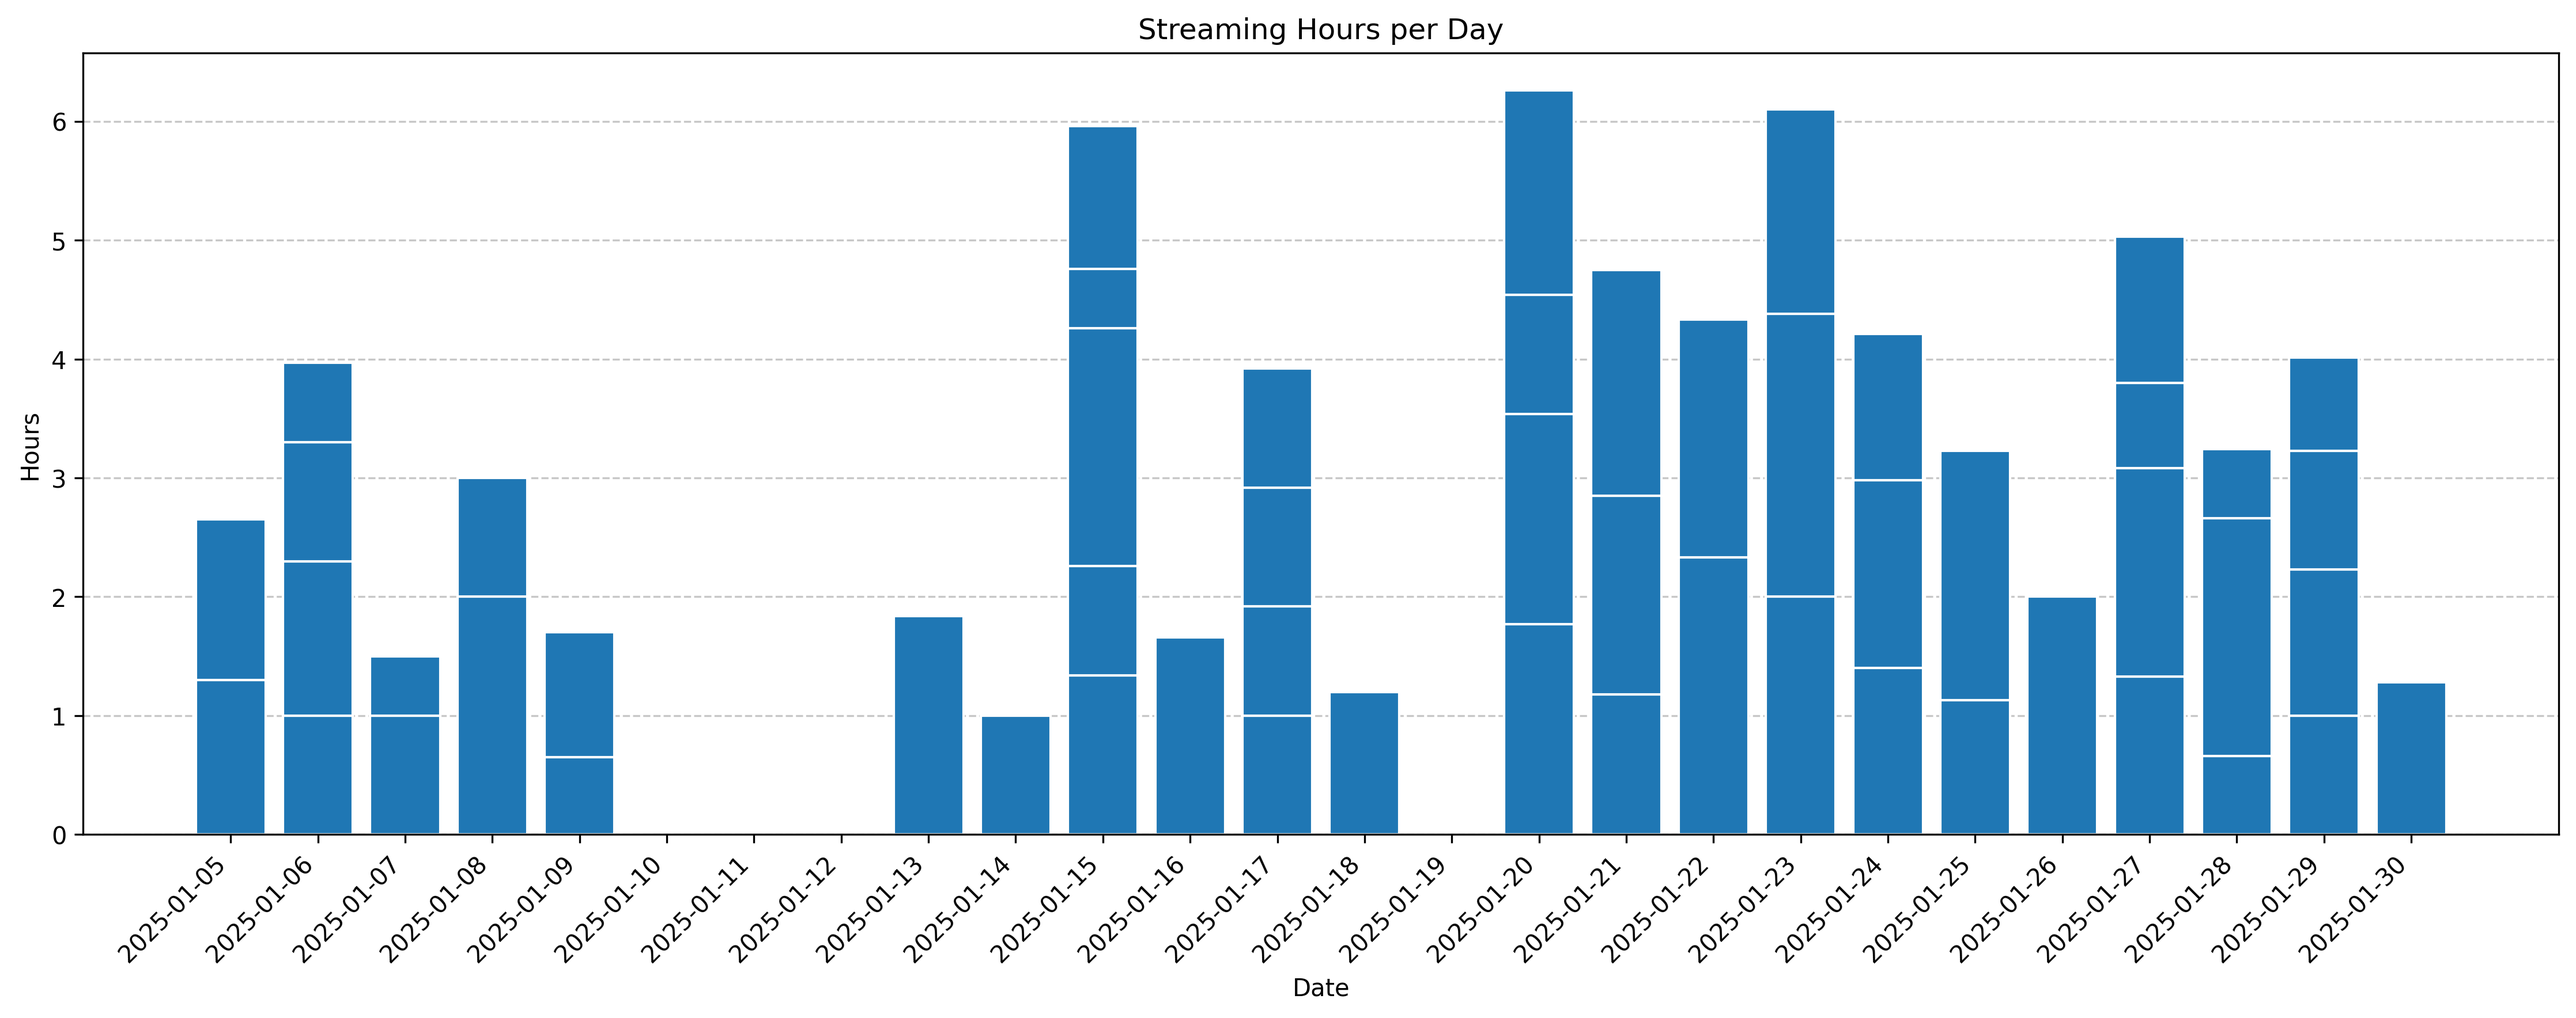
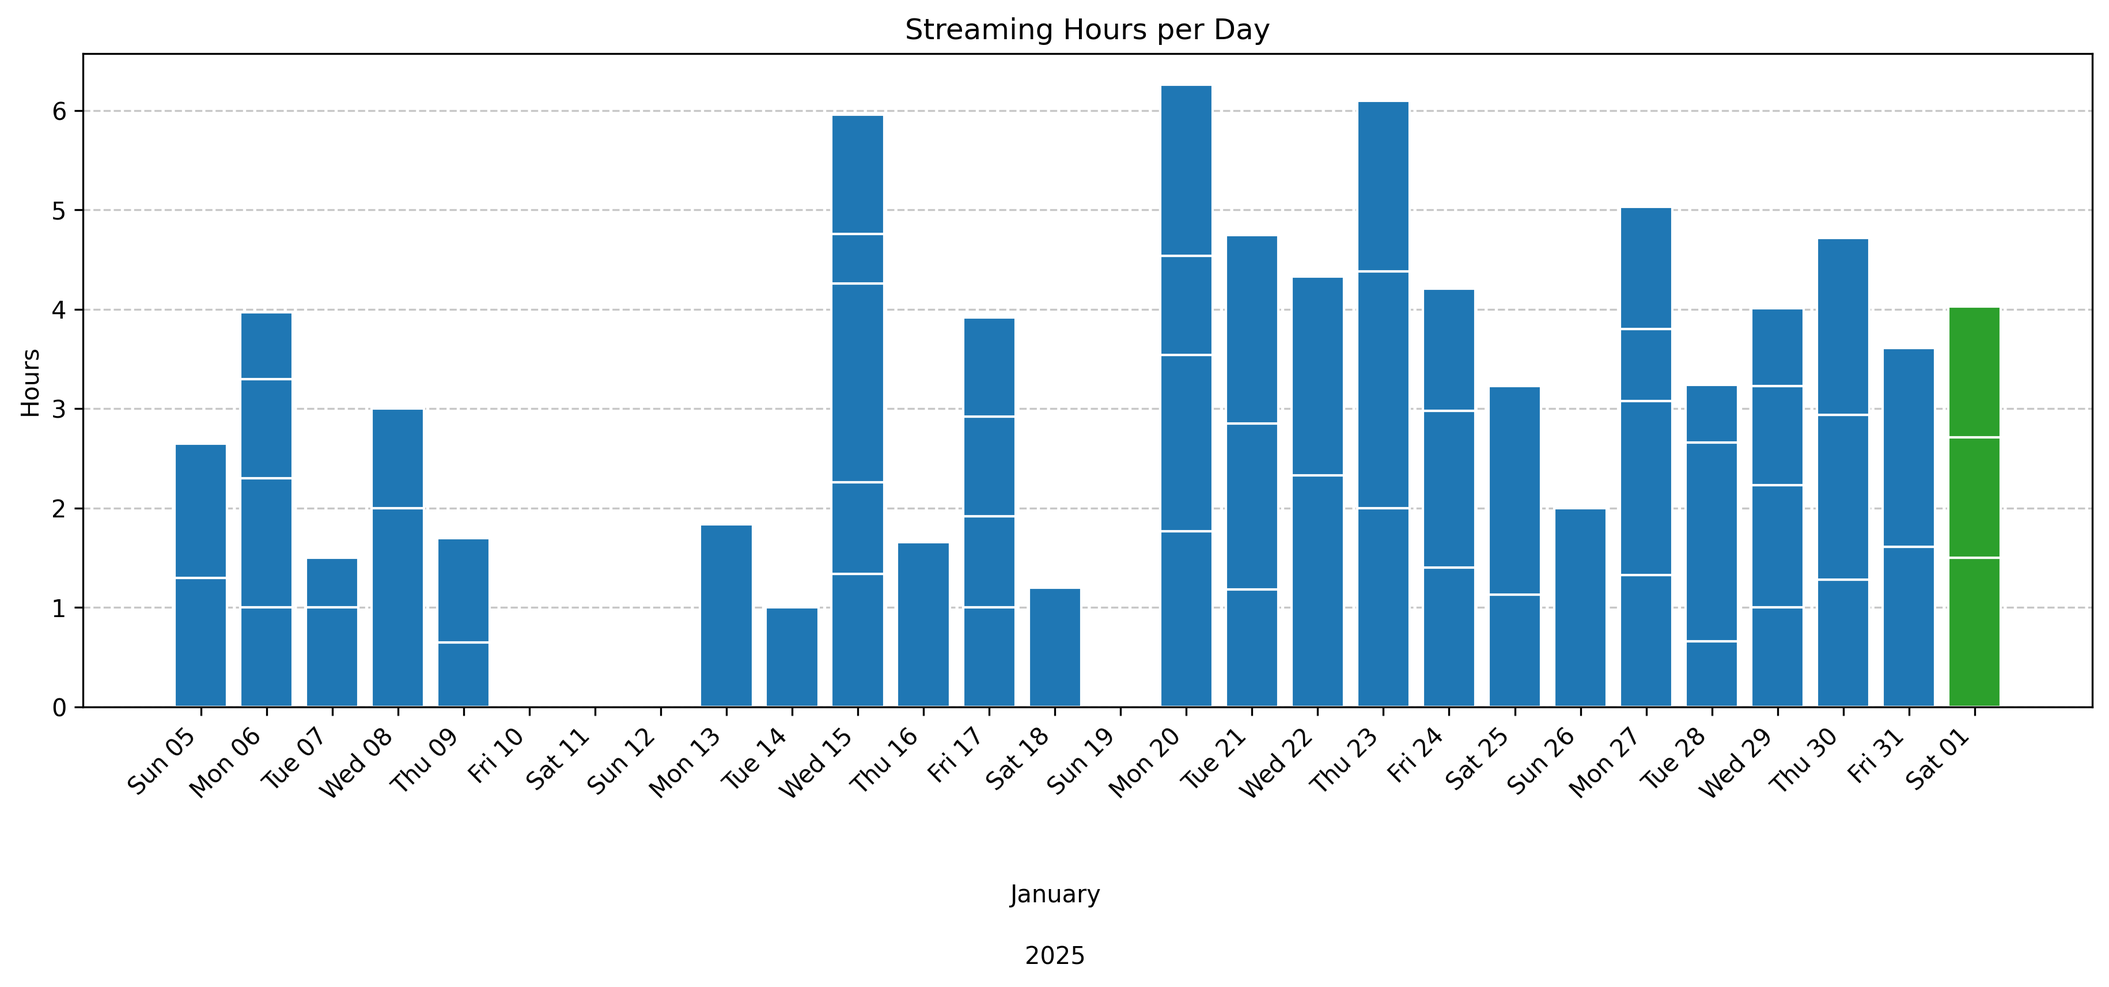
minor modifications

diff --git a/analyze_commits.py b/analyze_commits.py
@@ -113,29 +113,57 @@ print()
 # Create the bar chart
 plt.figure(figsize=(15, 6))
 
-# Create segmented bars
-bar_color = '#1f77b4'  # Default matplotlib blue
-edge_color = 'white'  # Changed to white for segment separation
+# Define colors for each month
+month_colors = {
+    1: '#1f77b4',  # January - blue
+    2: '#2ca02c',  # February - green
+    3: '#ff7f0e',  # March - orange
+    4: '#d62728',  # April - red
+    5: '#9467bd',  # May - purple
+    6: '#8c564b',  # June - brown
+    7: '#e377c2',  # July - pink
+    8: '#7f7f7f',  # August - gray
+    9: '#bcbd22',  # September - yellow-green
+    10: '#17becf', # October - cyan
+    11: '#aa40fc', # November - bright purple
+    12: '#b5bd61'  # December - olive
+}
+
+# Format dates for x-axis with separate month and year
+date_labels = [datetime.strptime(date, '%Y-%m-%d').strftime('%a %d') for date in complete_dates]
+first_date = datetime.strptime(complete_dates[0], '%Y-%m-%d')
+month = first_date.strftime('%B')
+year = first_date.strftime('%Y')
 
 for i, date in enumerate(complete_dates):
     sessions = date_sessions[date]
-    if sessions:  # If there were sessions on this day
+    if sessions:
         bottom = 0
-        for session_hours in sessions:  # Sessions are now in chronological order
+        current_month = datetime.strptime(date, '%Y-%m-%d').month
+        bar_color = month_colors[current_month]
+        for session_hours in sessions:
             plt.bar(i, session_hours, bottom=bottom, color=bar_color, 
-                   edgecolor=edge_color, width=0.8)
+                   edgecolor='white', width=0.8)
             bottom += session_hours
 
-plt.xticks(range(len(complete_dates)), complete_dates, rotation=45, ha='right')
+# Configure x-axis with dates only
+ax = plt.gca()
+ax.set_xticks(range(len(complete_dates)))
+ax.set_xticklabels(date_labels, rotation=45, ha='right')
+
+# Add month and year labels below dates
+plt.figtext(0.5, 0.08, month, ha='center', va='top')  # Month in middle
+plt.figtext(0.5, 0.02, year, ha='center', va='top')   # Year at bottom
+
 plt.title('Streaming Hours per Day')
-plt.xlabel('Date')
+plt.xlabel('')
 plt.ylabel('Hours')
 
 # Add horizontal grid lines
 plt.grid(axis='y', linestyle='--', alpha=0.7)
-plt.gca().set_axisbelow(True)  # Put grid behind bars
+plt.gca().set_axisbelow(True)
 
-# Adjust layout and save
-plt.tight_layout()
+# Adjust layout with more bottom margin for month and year labels
+plt.subplots_adjust(bottom=0.25)
 plt.savefig('progress_chart.png', dpi=300, bbox_inches='tight')
 plt.close()
